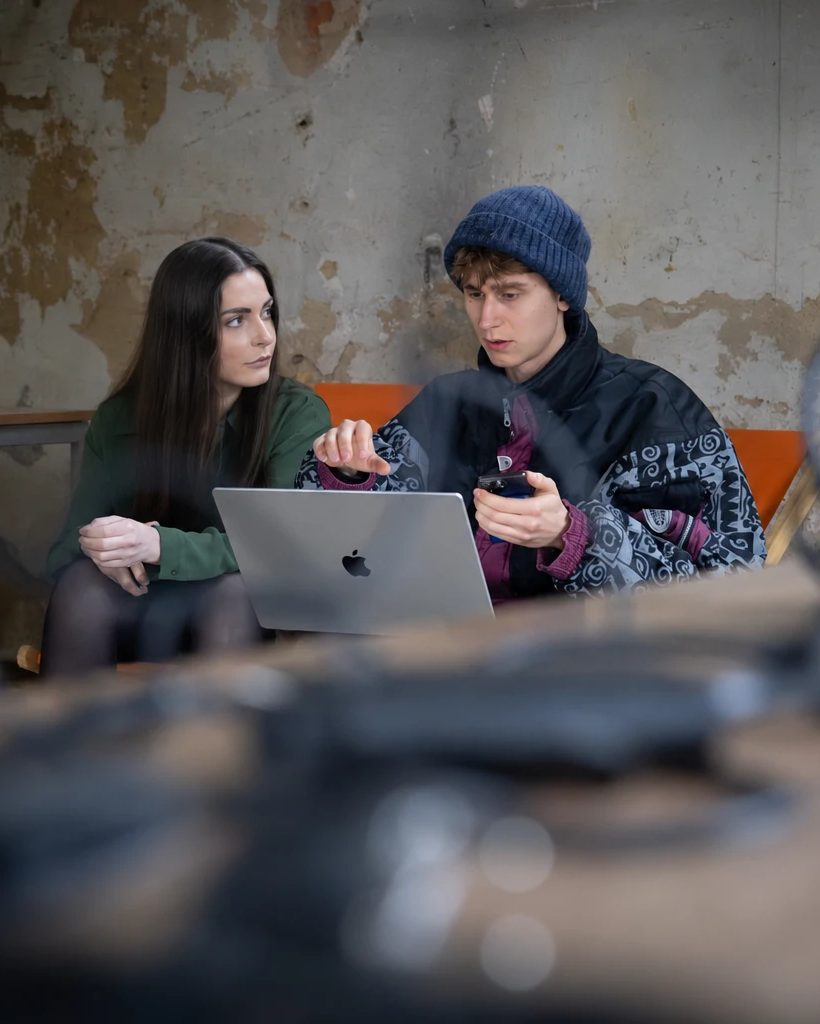
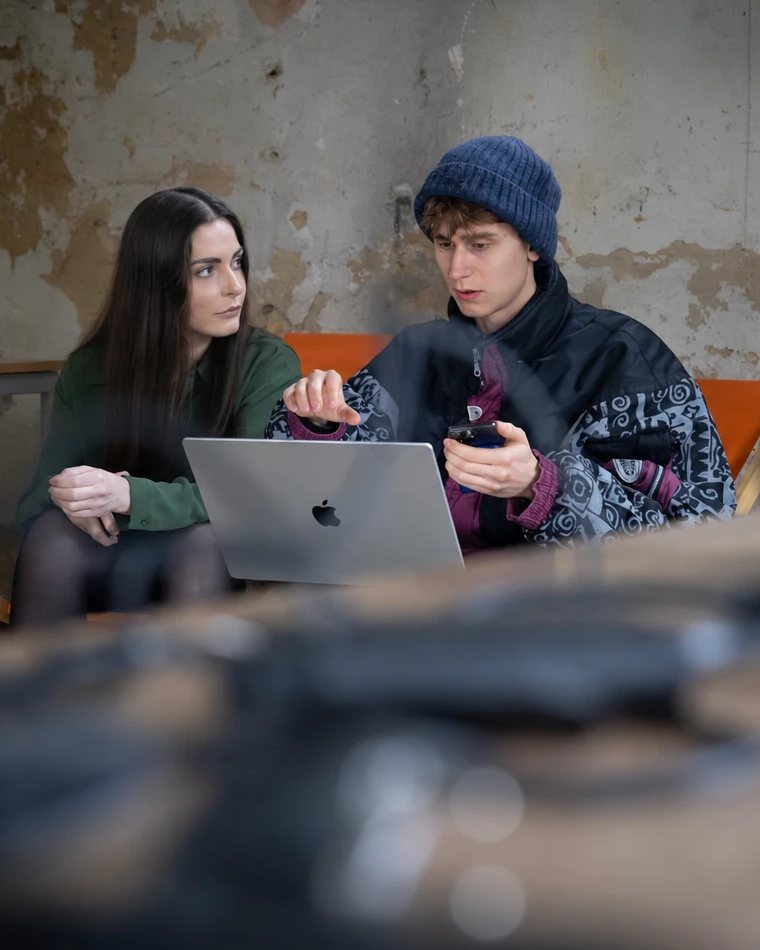
Galerie: Besprechungsfoto enger zugeschnitten
Claude-Session: https://claude.ai/code/session_01MYxWecSh4BjLKBjYwkHiYd

diff --git a/index.html b/index.html
@@ -432,7 +432,7 @@
           </picture></li>
           <li><picture>
             <source type="image/avif" srcset="assets/img/einblick-besprechung.avif">
-            <img src="assets/img/einblick-besprechung.jpg" alt="Till Börner erklärt einer Kundin etwas am Laptop" width="820" height="1024" loading="lazy" decoding="async">
+            <img src="assets/img/einblick-besprechung.jpg" alt="Till Börner erklärt einer Kundin etwas am Laptop" width="760" height="950" loading="lazy" decoding="async">
           </picture></li>
           <li><picture>
             <source type="image/avif" srcset="assets/img/einblick-segelschiff.avif">
